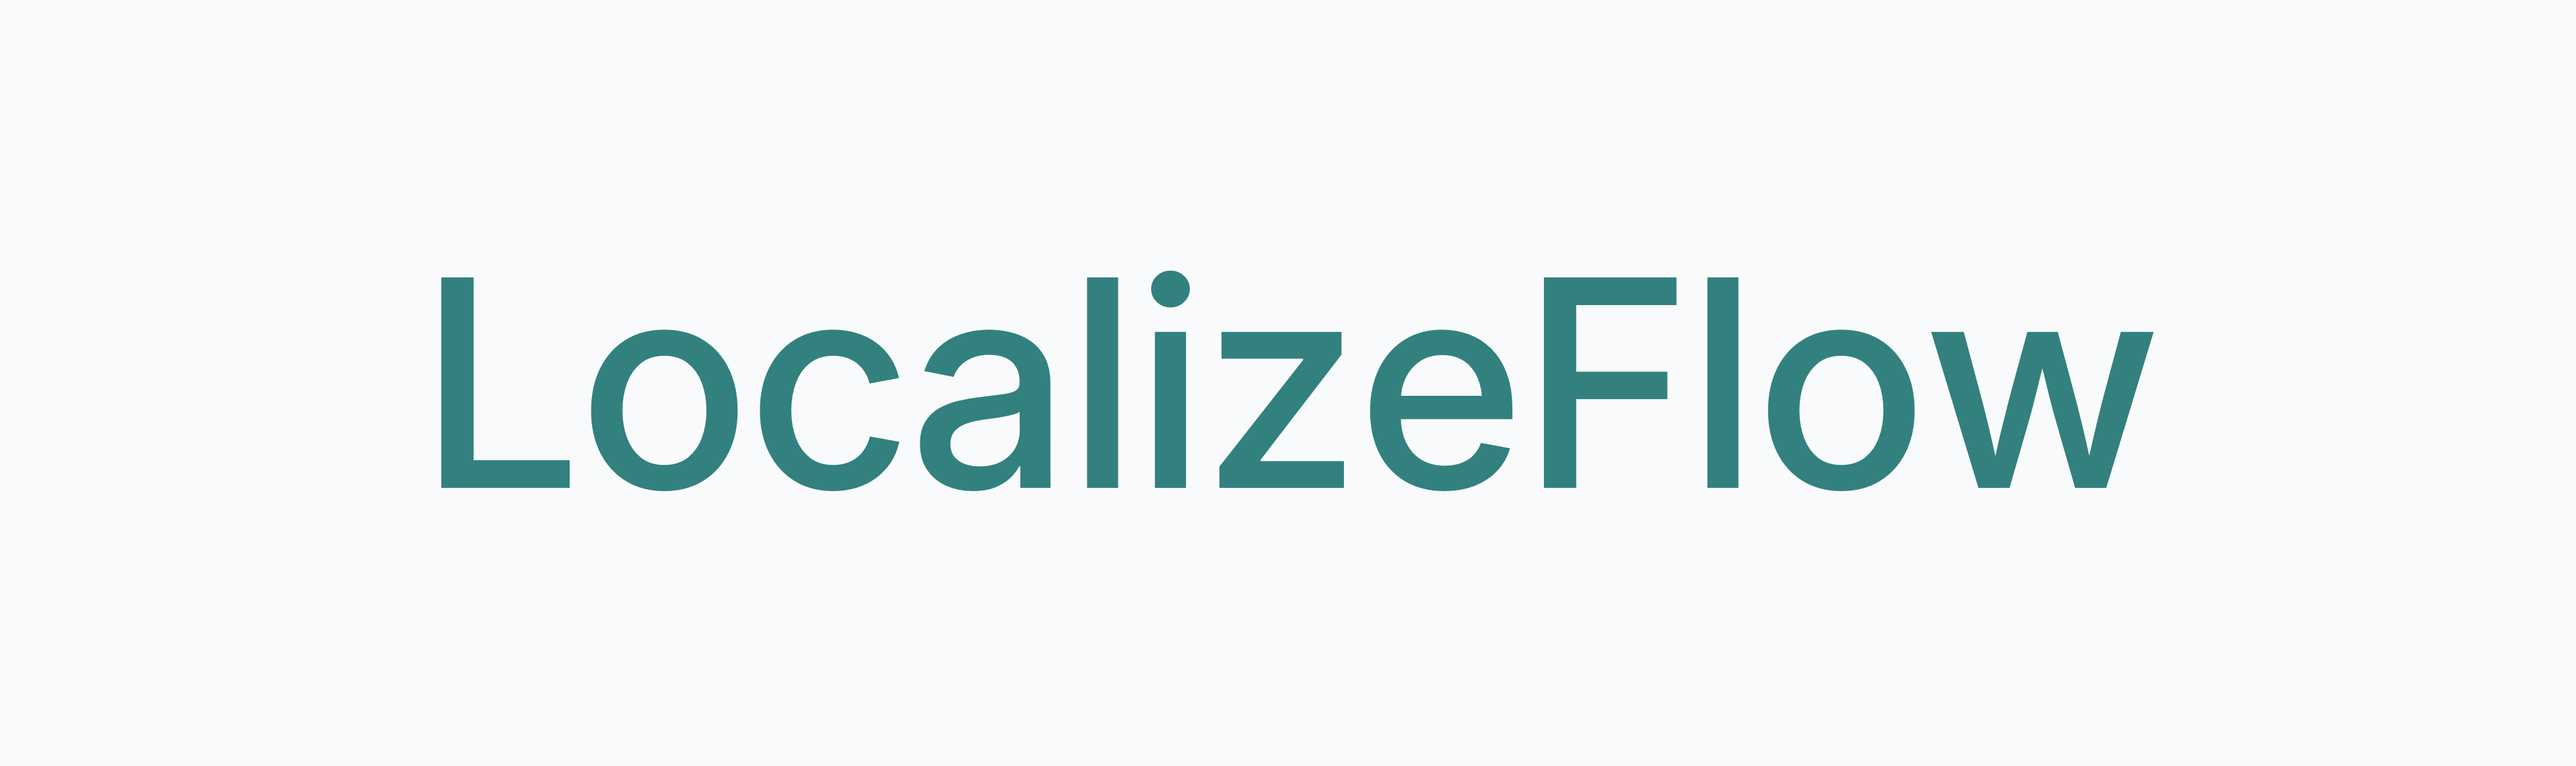
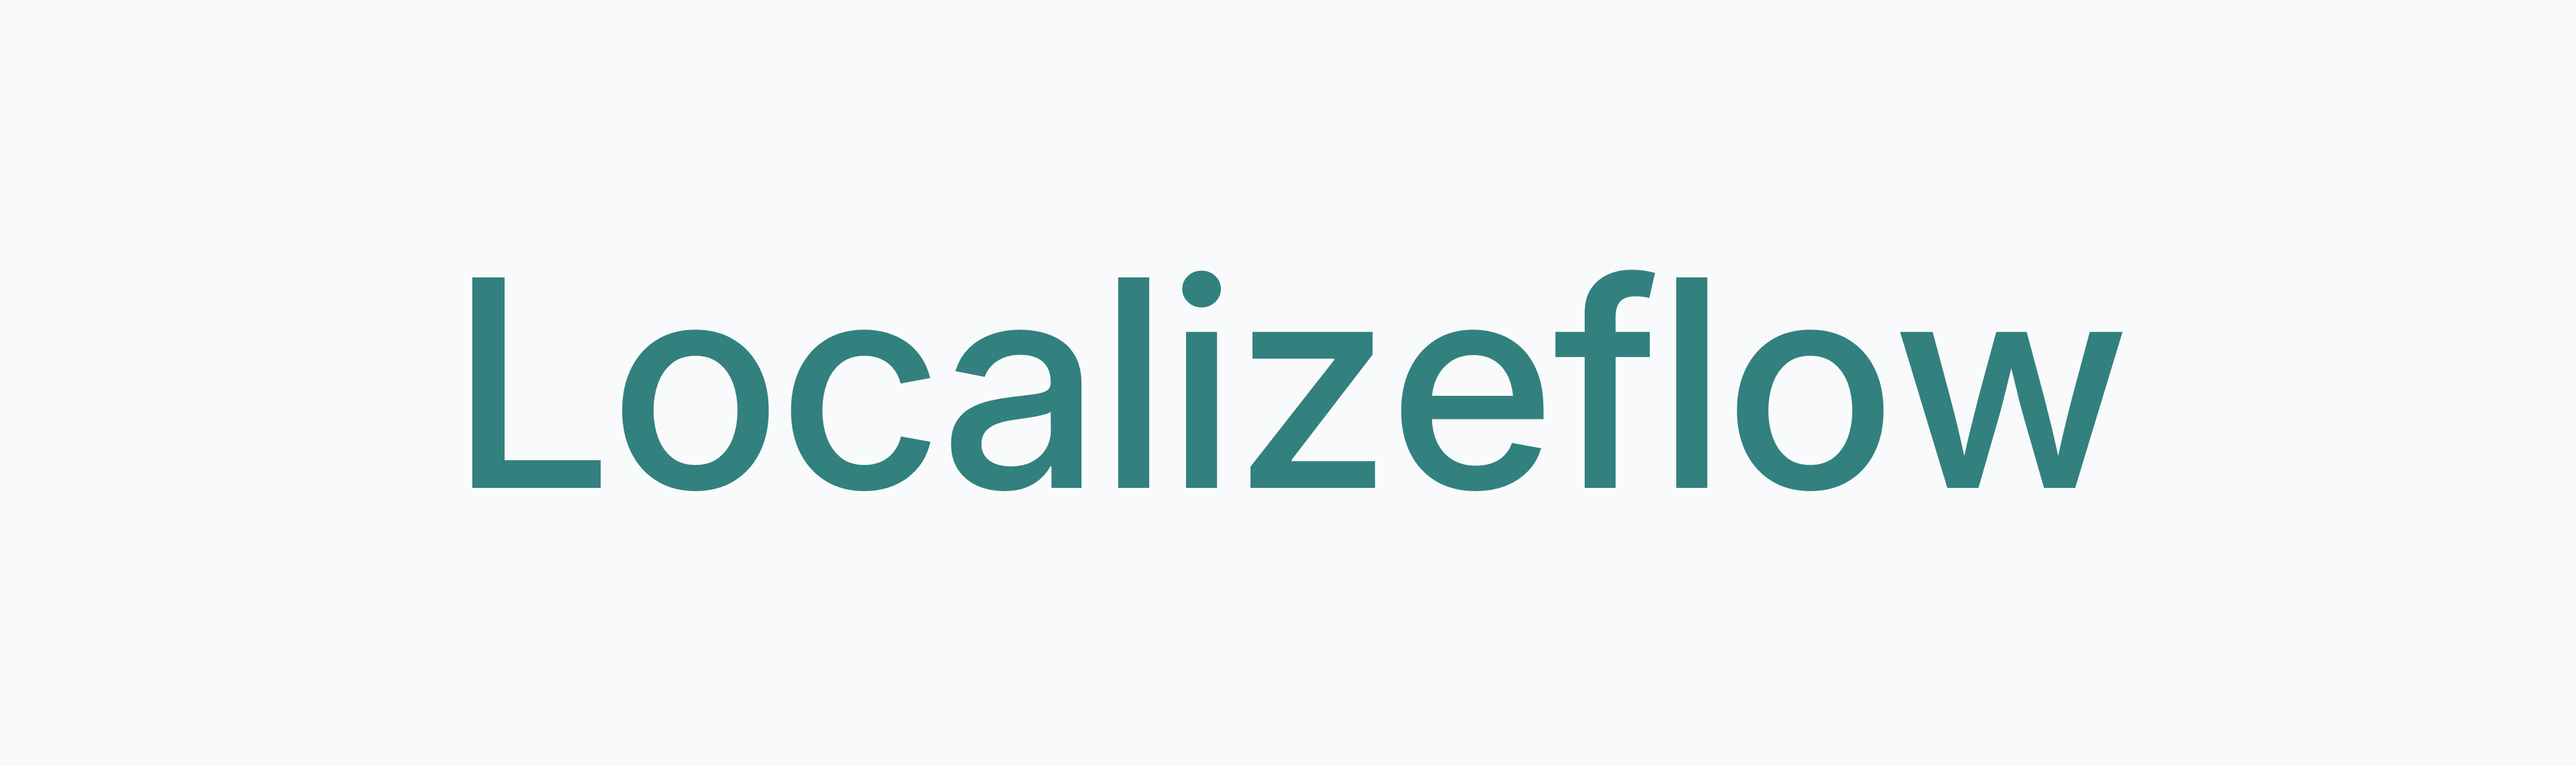
Update from LocalizeFlow to Localizeflow

Changed region(s): [[0.1558, 0.3399, 0.8412, 0.6489]]

diff --git a/profile/README.md b/profile/README.md
@@ -1,10 +1,10 @@
-![LocalizeFlow banner](../assets/banner.png)
+![Localizeflow banner](../assets/banner.png)
 
-# LocalizeFlow
+# Localizeflow
 
 Effortless localization automation for documentation.
 
-LocalizeFlow is a GitHub-native automation infrastructure
+Localizeflow is a GitHub-native automation infrastructure
 that removes the operational burden of multilingual documentation.
 
 Built for developers, open-source maintainers,
@@ -33,109 +33,103 @@ That assumption creates:
 - enterprise-grade pricing
 
 As a result, localization becomes slow, expensive,
+
 and inaccessible to most teams.
 
 So teams decide not to localize at all.
 
----
-
 ## Who this is for
 
-LocalizeFlow is for teams that:
+
+
+Localizeflow is for teams that:
+
 - do not have reviewers
+
 - do not want vendor contracts
+
 - ship documentation frequently
+
 - do not want to spend time setting up localization workflows
+
 - want localization to run automatically
 
+
+
 This includes:
+
 - open-source maintainers
+
 - indie developers
+
 - early-stage startups
+
 - fast-moving product teams
 
+
+
 These teams need localization the most,
+
 but cannot afford to operate or configure it.
-
----
-
-## Our approach
-
-LocalizeFlow treats localization as infrastructure.
-
-Not as a workflow.
-Not as a project.
-Not as a dashboard.
-
-During setup, you connect your repository
-and choose the documentation paths and languages.
-
-After that, LocalizeFlow continuously:
-- detects documentation changes
-- identifies outdated translations
-- regenerates them deterministically
-- opens language-scoped pull requests
-
-No reviewers.
-No workflows.
-No ongoing management.
-
-Once setup is complete,
-if you rarely need to open the UI again,
-it is working as intended.
-
----
-
-## Installation philosophy
-
-Most localization tools require:
-- API keys
-- YAML configuration
-- custom GitHub Actions
-- ongoing operational maintenance
-
-LocalizeFlow does not.
-
-Install the GitHub App.
-Select the documentation paths.
-Localization runs continuously.
-
-Localization should be something you *enable* once,
-not something you *operate* forever.
-
----
 
 ## Relationship to Co-op Translator
 
-LocalizeFlow is built on top of **Co-op Translator**,
+
+
+Localizeflow is built on top of **Co-op Translator**,
+
 a Microsoft open-source translation engine
+
 maintained under the Azure GitHub organization.
+
+
 
 Co-op Translator provides the core translation capabilities.
 
-LocalizeFlow adds:
+
+
+Localizeflow adds:
+
 - orchestration and scheduling
+
 - execution reliability
+
 - GitHub-native delivery
+
 - operational abstraction
 
+
+
 Together, they enable localization
+
 that scales without human maintenance.
+
+
 
 https://github.com/Azure/co-op-translator
 
+
+
 ---
+
+
 
 ## How it works
 
-LocalizeFlow runs as a background automation layer
+
+
+Localizeflow runs as a background automation layer
+
 that keeps translations continuously in sync
+
 as source documentation evolves.
 
+
+
 Documentation changes.
+
 Translations stay aligned.
 
-![LocalizeFlow architecture](../assets/architecture.png)
 
 
-
+![Localizeflow architecture](../assets/architecture.png)
